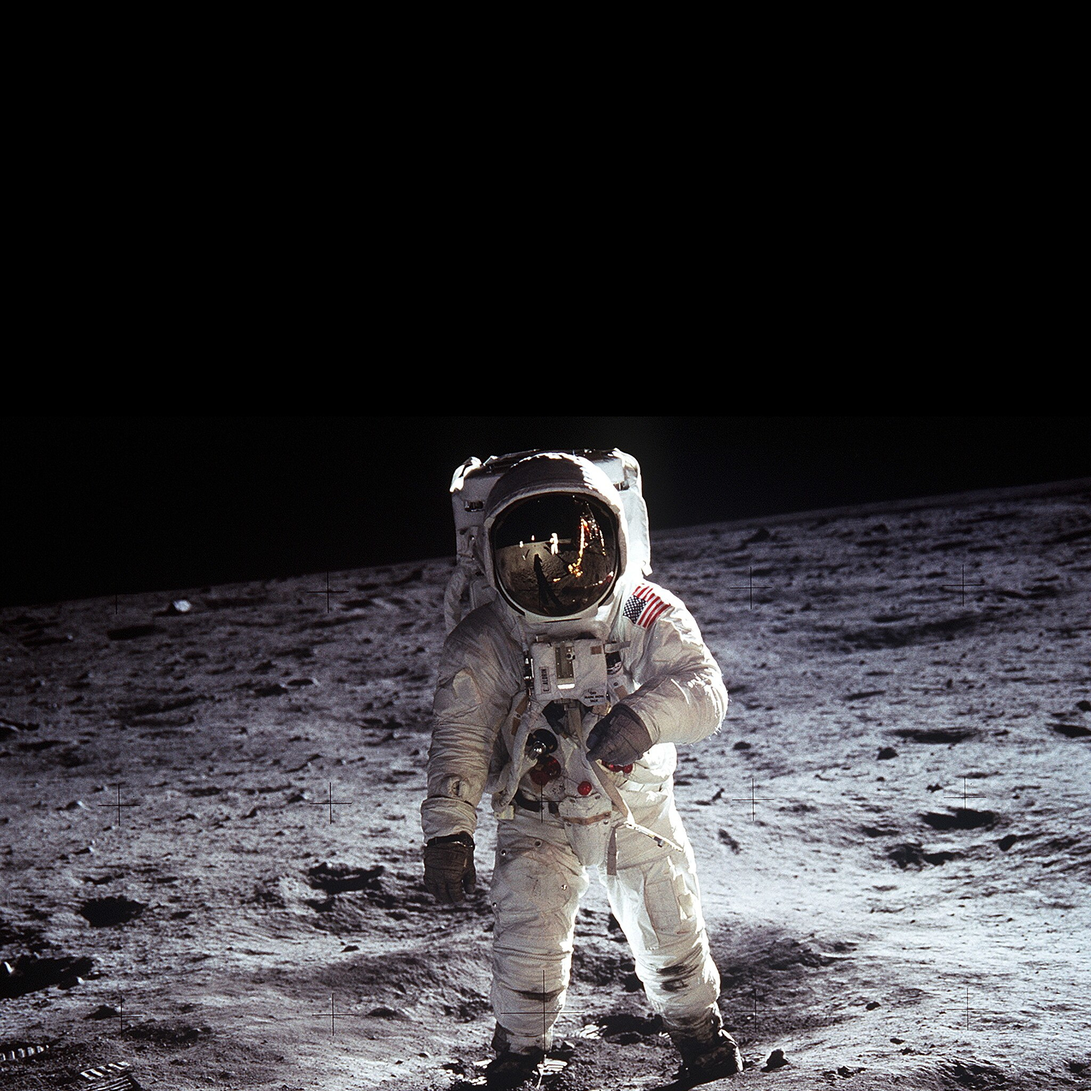
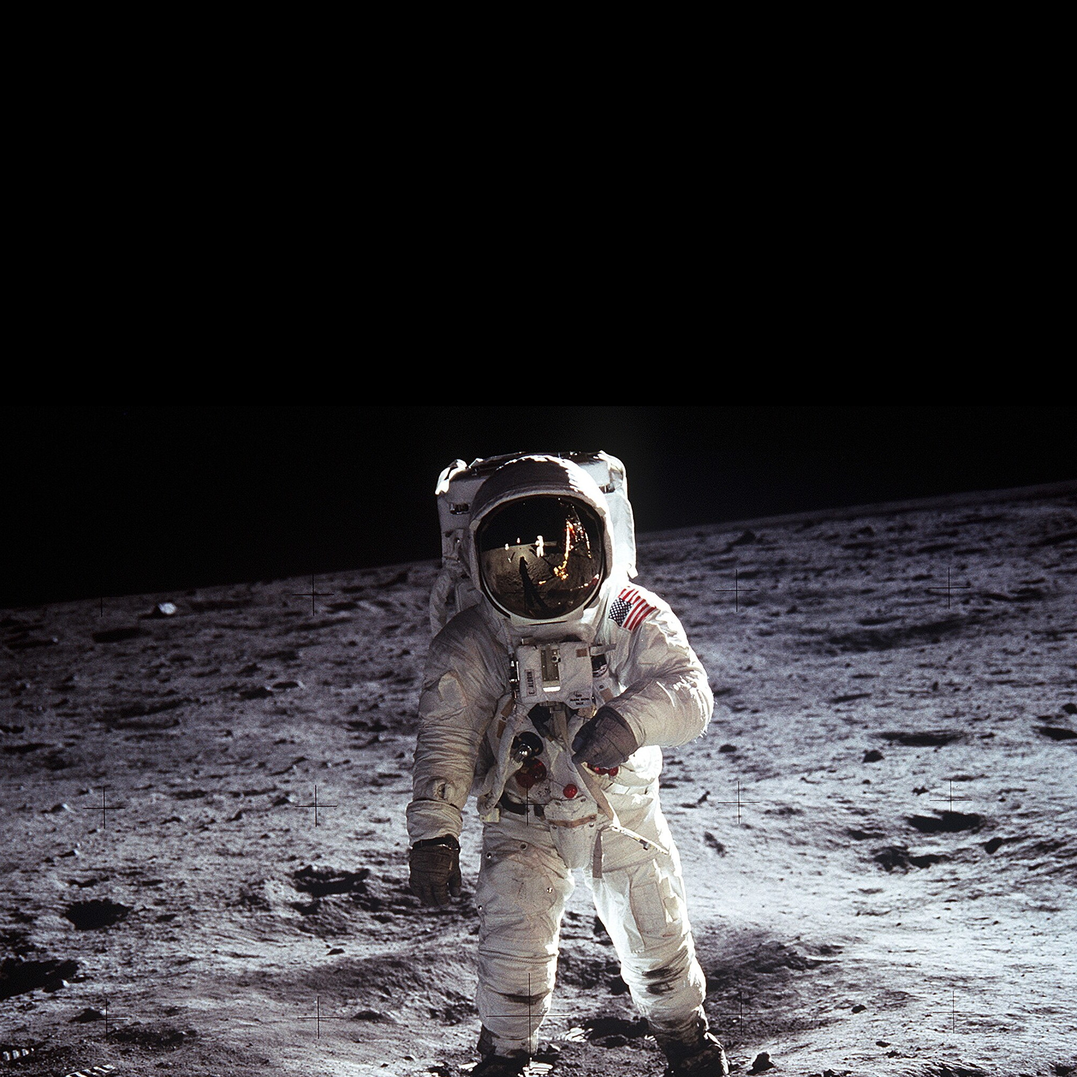
Marginal improvements

diff --git a/main.js b/main.js
@@ -515,8 +515,8 @@ function loadBackgroundImages() {
 	const textureLoader = new THREE.TextureLoader();
 	// textureLoader.crossOrigin = "Anonymous";
 
-	textureTIM = textureLoader.load('Dr_TIM.jpg');
-	aspectRatioTIM = 4000/1800;
+	textureTIM = textureLoader.load('Dr_TIM_cropped.jpg');
+	aspectRatioTIM = 3978/1794;
 	backgroundColourTIM = new THREE.Vector4(0.75, 0.62, 0.37, 1);
 
 	// textureEarthrise = textureLoader.load('NASA-Apollo8-Dec24-Earthrise.jpeg');	// https://en.wikipedia.org/wiki/File:NASA-Apollo8-Dec24-Earthrise.jpg -- public domain
